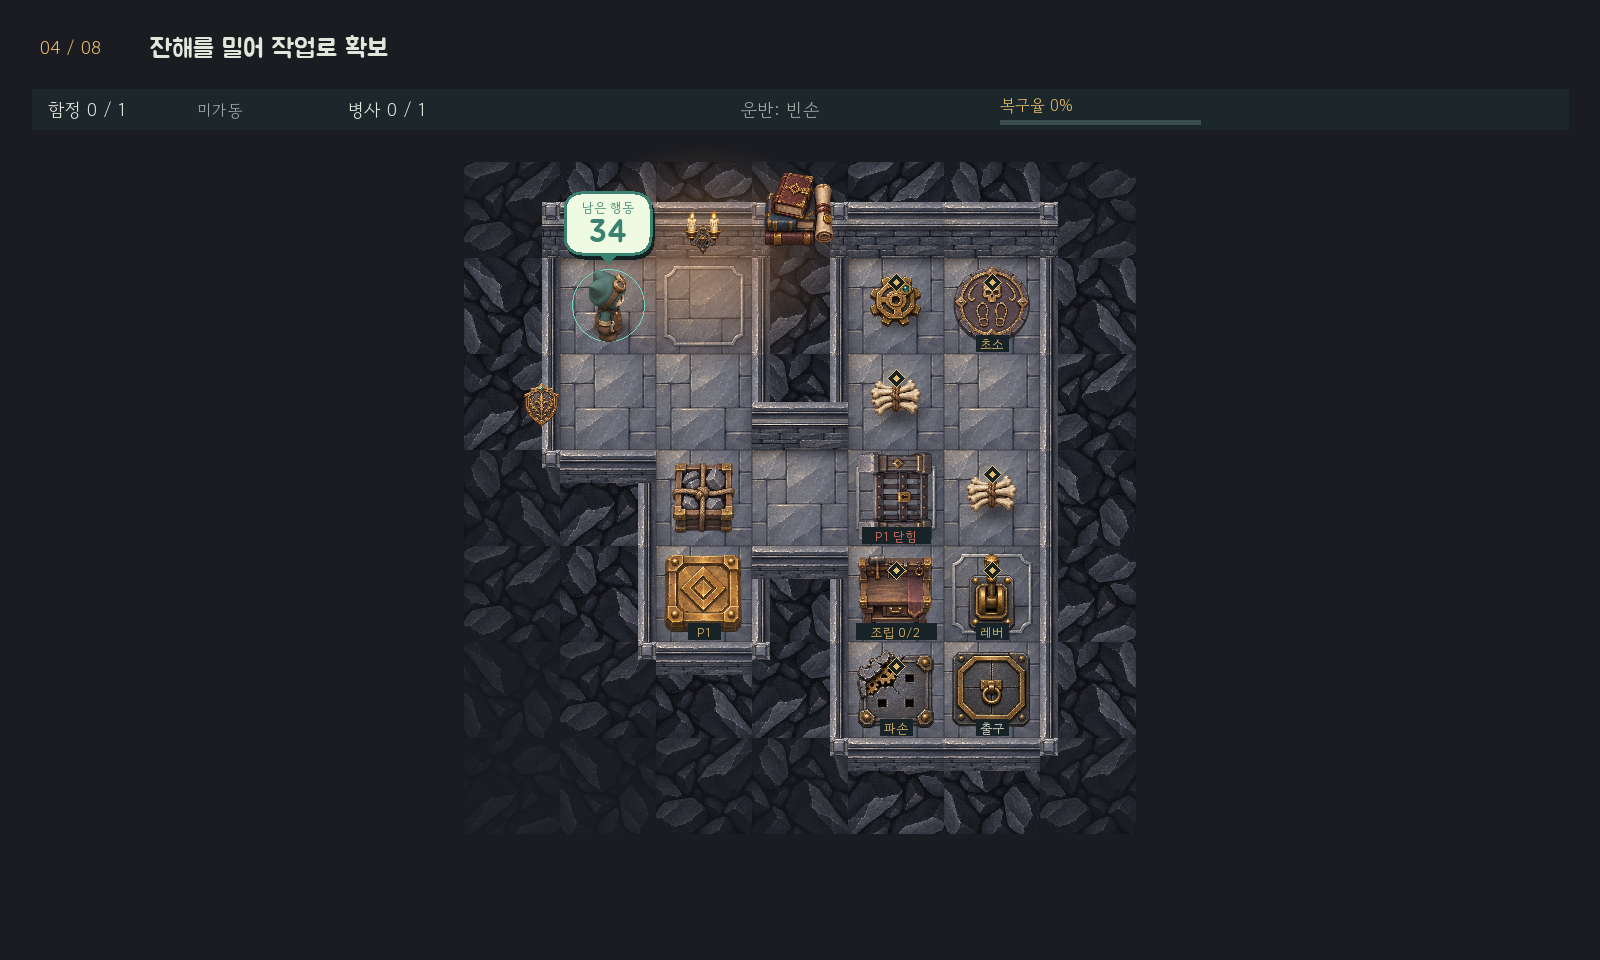
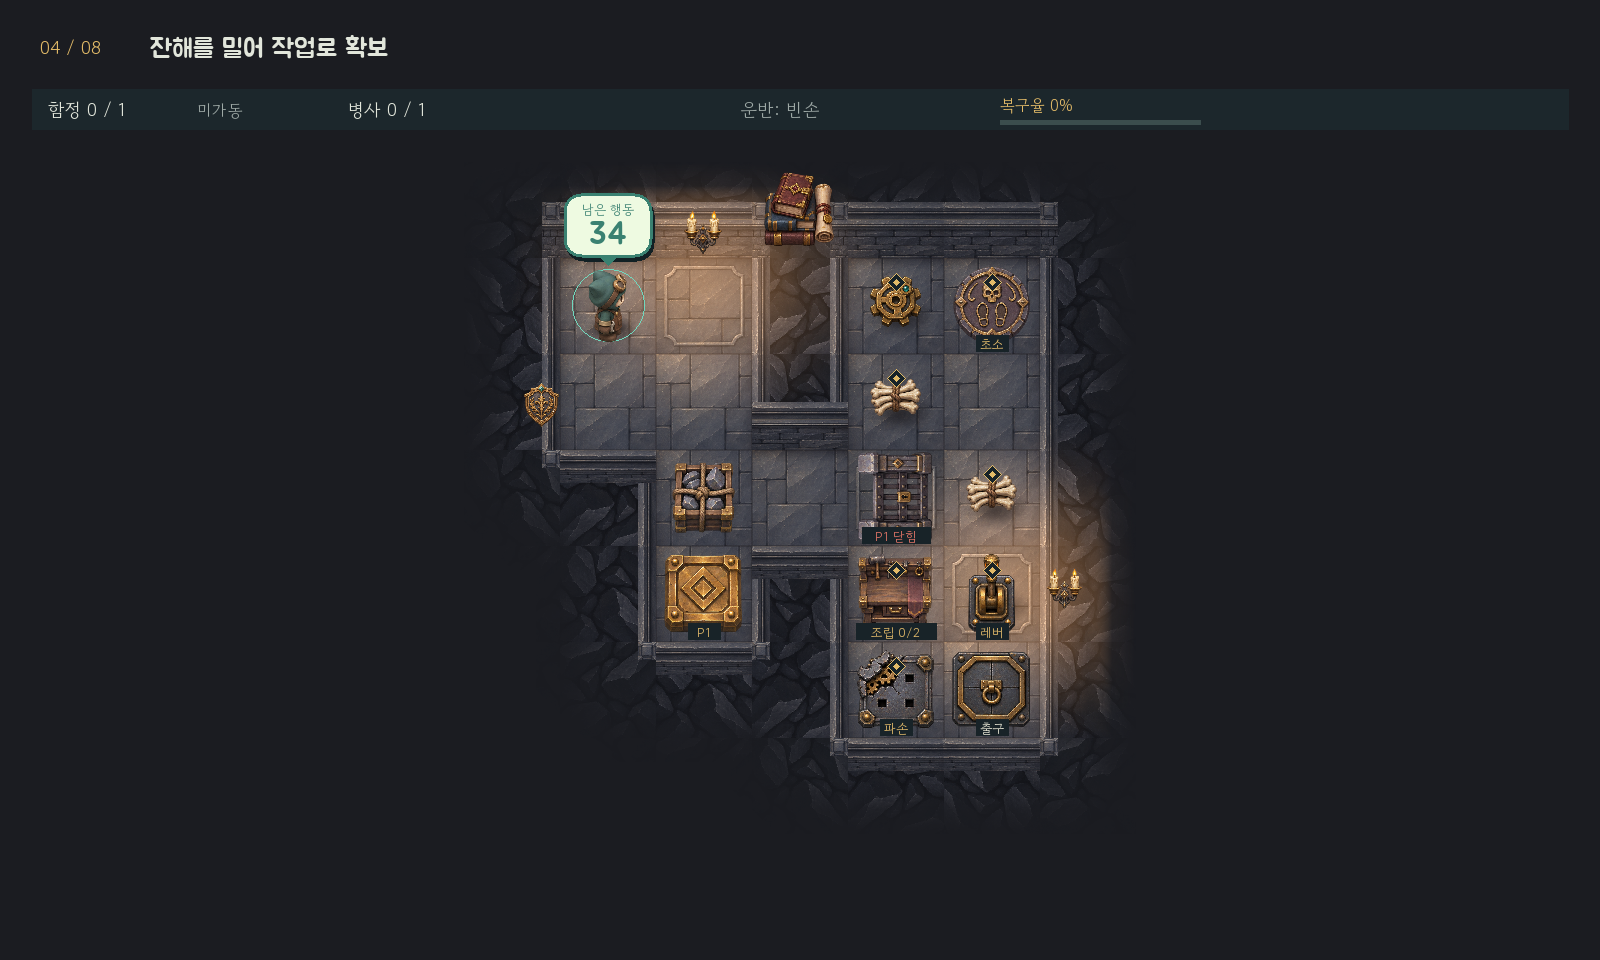
docs: 조명 변경 후 탑다운 플레이 화면 갱신
여덟 방의 시작 화면과 정비실 가동, 왕좌실 마력 연결 화면을 새로 저장한다.

diff --git a/README.md b/README.md
@@ -60,7 +60,7 @@
 
 **기본 플레이 화면은 위에서 내려다보는 정사각 격자입니다.** 여덟 방의 지형과 수리공, 장치를 [새 탑다운 에셋](assets/topdown_v2/README.md)으로 표시합니다. `python main.py --stage 1`은 첫 방부터, `python main.py --isometric`은 기존 사선 화면으로 시작합니다. [탑다운 1번 방](docs/screenshots/topdown-v2/stage-01.png) · [8번 방](docs/screenshots/topdown-v2/stage-08.png) · [8번 방 광선 연결](docs/screenshots/topdown-v2/stage-08-powered.png).
 
-모든 방에서 통로를 따라 벽의 윗돌과 앞면을 나눠 그립니다. 등불·수정·화로는 가까운 바닥을 비추고, 열린 출구에 청록빛이 번집니다. 방마다 재질과 소품을 달리합니다.
+모든 방에서 통로를 따라 벽의 윗돌과 앞면을 나눠 그립니다. 등불·수정·화로가 가까운 바닥을 비추고, 통로에서 멀어진 암석은 어둠 속으로 서서히 사라집니다. 켜진 마력 수신기에는 보라빛, 열린 출구에는 청록빛이 번집니다. [조명 참고 화면 · Dungeon and Puzzles](https://nekolyst.com/games/dungeon-and-puzzles/)
 
 | 방 | 탑다운 플레이 화면 |
 | --- | --- |
